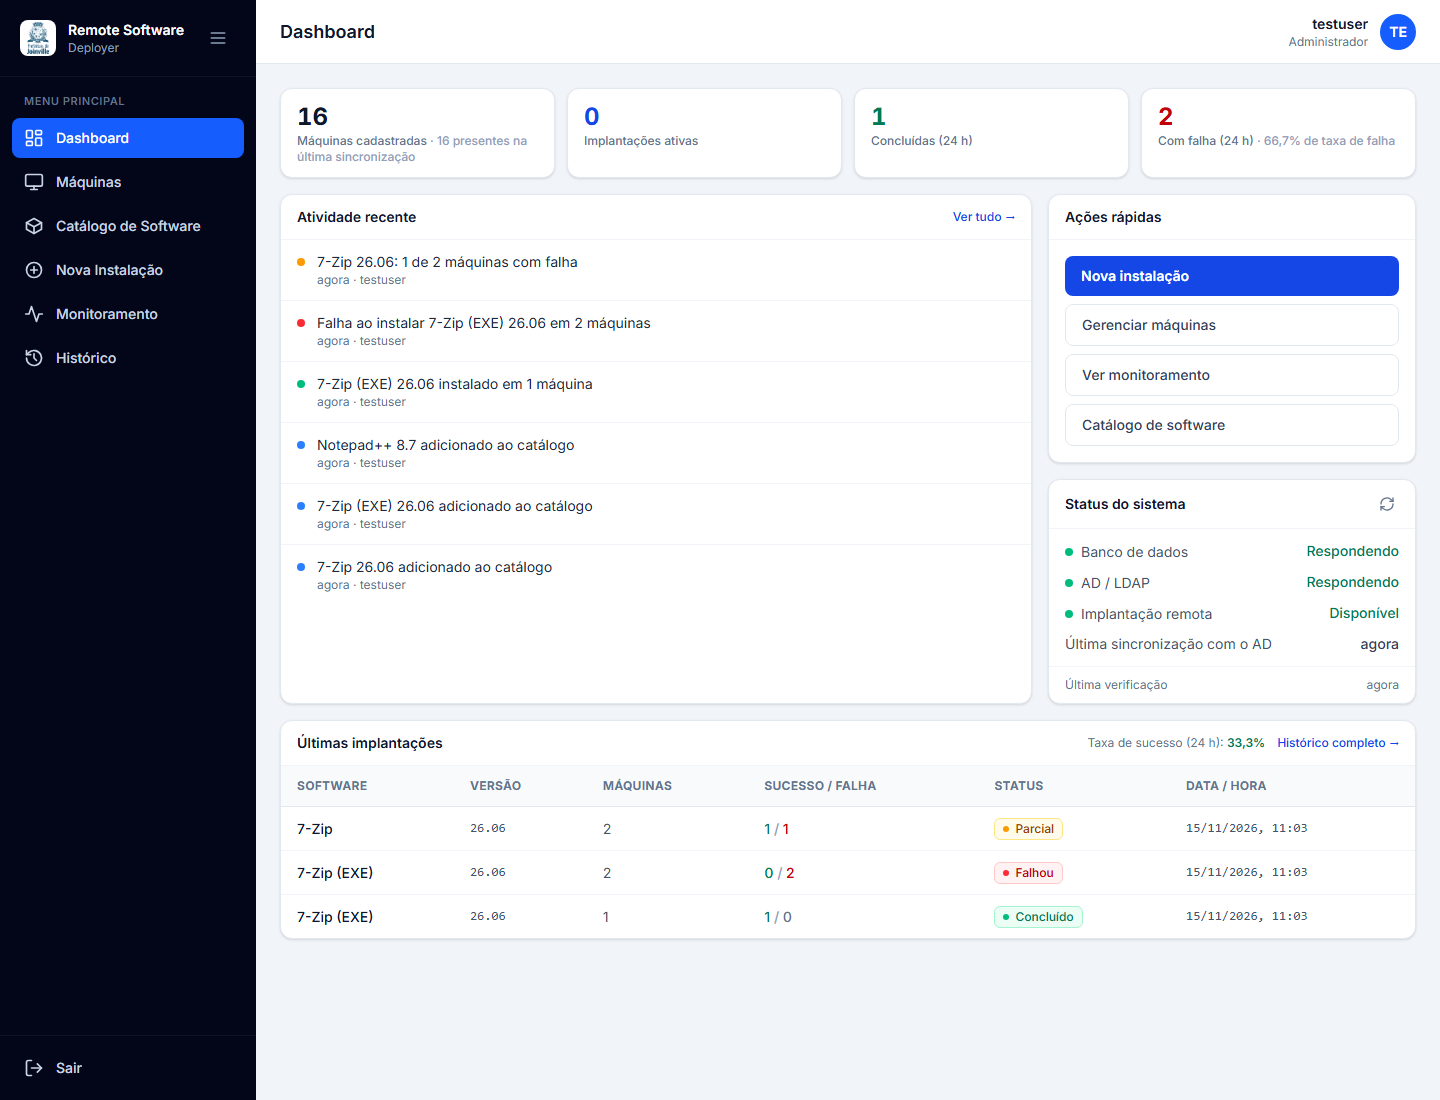
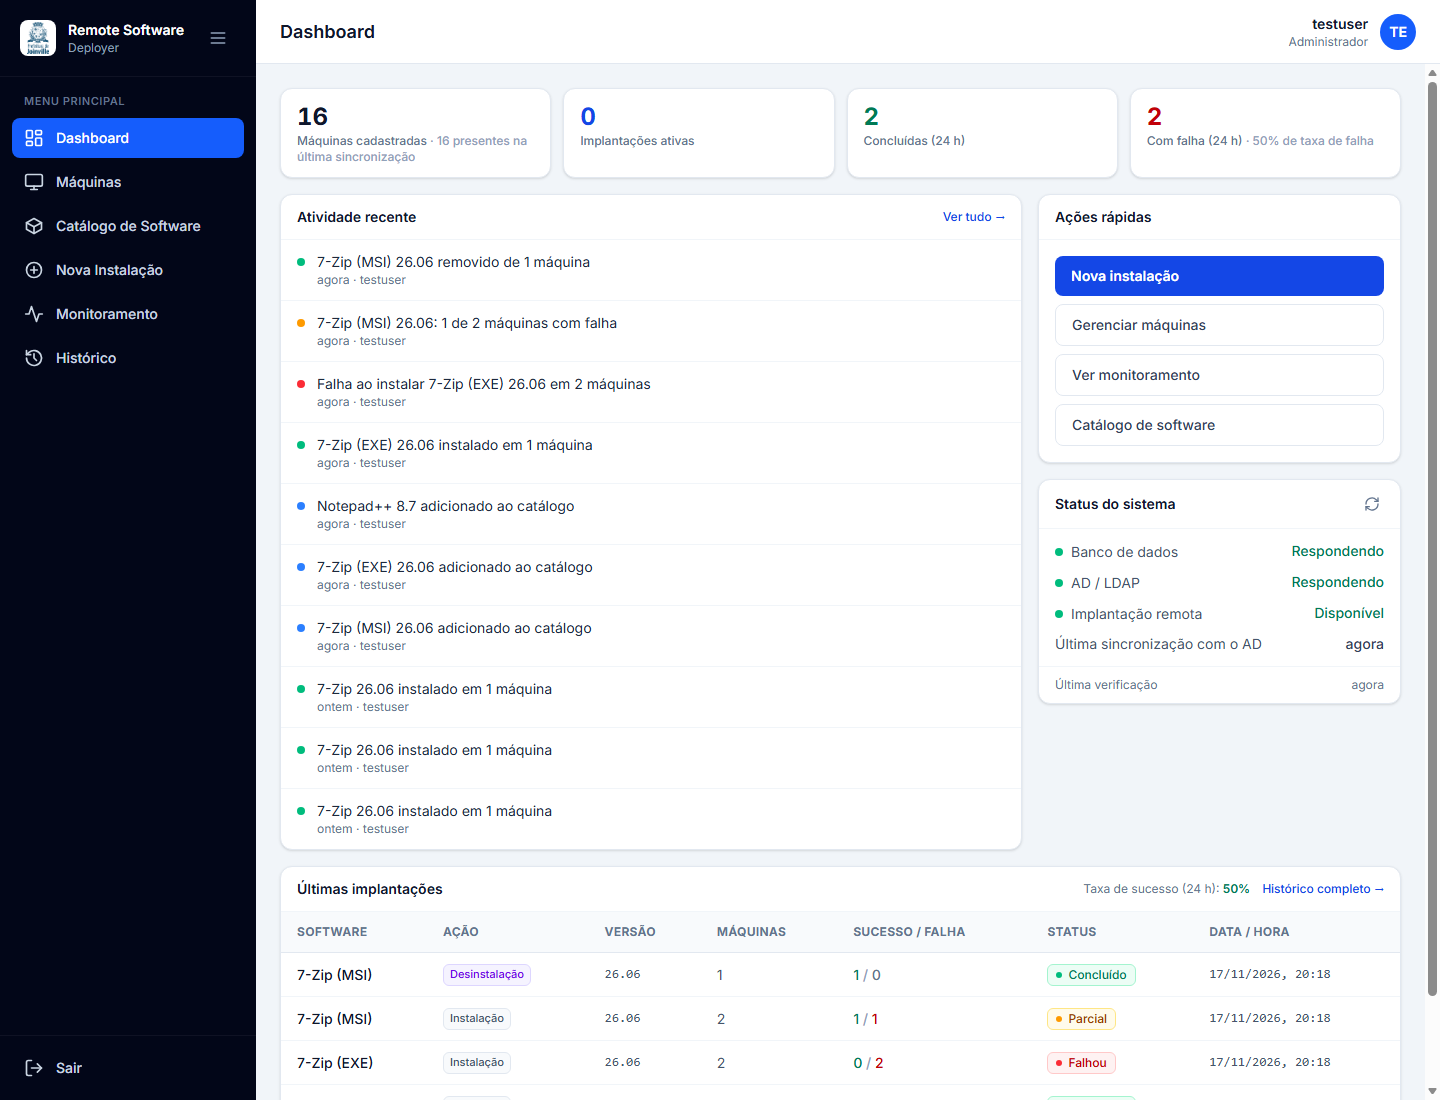
docs: registra desinstalação no README
Desinstalação remota (só MSI) registrada como acréscimo fora do RFC: como funciona, decisões de segurança, limitação por versão e desinstalação de EXE como trabalho futuro. RF06, RF07 e RF13 descritos na estrutura nova (implantação expandida no Monitoramento e no Histórico). Prints refeitos: sai o da tela de acompanhamento; entram Monitoramento e Histórico com a implantação expandida e a revisão da desinstalação.

diff --git a/README.md b/README.md
@@ -50,6 +50,9 @@ flowchart LR
   3. verifica se o produto já está instalado;
   4. executa em modo silencioso;
   5. apaga os arquivos temporários.
+
+  Na **desinstalação** (só MSI), o mesmo script confere se o produto está instalado e
+  executa `msiexec /x {ProductCode}`, sem copiar nada.
 - Para alcançar as estações pelo WinRM, **o backend precisa rodar em Windows, dentro da
   rede das estações.**
 
@@ -78,14 +81,32 @@ clássicos de migração, o NestJS 12 só publica ESM e o TypeScript 7 quebra o 
 | RF03 | Selecionar máquinas | ✅ Seleção individual e "selecionar todas" respeitando a busca. Até 50 máquinas por implantação. |
 | RF04 | Cadastrar softwares | ✅ Catálogo com MSI e EXE e argumentos silenciosos. O instalador é enviado ao sistema, que calcula o SHA-256. Desativar em vez de apagar o que já foi implantado. |
 | RF05 | Executar instalação remota | ✅ Fila com até 10 máquinas em paralelo e uma instalação por vez em cada máquina. Validado numa VM de laboratório (ver [Limitações](#limitações-conhecidas)). |
-| RF06 | Acompanhar status | ✅ Tela de acompanhamento com a fase de cada máquina (conectando, copiando, conferindo o hash, instalando…), atualizada a cada 3 s, e painel de Monitoramento. |
-| RF07 | Histórico de instalações | ✅ Filtros por período, status, software, máquina e "Minhas implantações", com paginação. Os filtros ficam no link. |
+| RF06 | Acompanhar status | ✅ Monitoramento com as implantações em andamento e as encerradas nas últimas 24 h. Cada uma expande na própria linha, com a fase de cada máquina (conectando, copiando, conferindo o hash, instalando…), atualizada a cada 3 s. |
+| RF07 | Histórico de instalações | ✅ Implantações encerradas, com filtros por período, ação, status, software, máquina e "Minhas implantações", e paginação. Os filtros ficam no link. |
 | RF08 | Inventário de software instalado por máquina | ⏳ **Trabalho futuro.** Depende de consulta ao vivo pelo WinRM, já validada na prova de conceito, mas não implementada. |
 | RF09 | Registrar resultado | ✅ Status e código de saída por máquina. Os códigos do Windows Installer (1603, 1618…) aparecem com mensagem explicativa. |
 | RF10 | Mensagens de sucesso e falha | ✅ Cada falha diz a fase e o motivo (máquina não encontrada, WinRM recusado, acesso negado, hash diferente, tempo esgotado…). |
 | RF11 | Pesquisar e filtrar máquinas | ✅ Busca por nome, sistema ou setor; filtro por setor e por presença no AD. |
 | RF12 | Detalhes da máquina | ✅ Painel com os dados vindos do AD. IP, CPU e memória não são mostrados porque o AD não os fornece. |
-| RF13 | Logs de execução | ✅ Log completo de cada máquina, com hora e nível, na tela de acompanhamento. |
+| RF13 | Logs de execução | ✅ Log completo de cada máquina, com hora e nível, dentro da implantação expandida no Monitoramento e no Histórico. |
+
+### Acréscimo fora do RFC: desinstalação remota (só MSI)
+
+Na Nova Instalação, o passo do software tem a escolha **Instalar / Desinstalar**.
+
+- **Como funciona:** a desinstalação usa o mesmo fluxo da instalação (fila, uma ação
+  por vez em cada máquina, logs, Monitoramento, Histórico e permissões). Na máquina, o
+  comando é sempre `msiexec.exe /x {ProductCode} /qn /norestart REBOOT=ReallySuppress`.
+  - O **ProductCode** é lido pelo servidor do próprio pacote MSI, no envio, com o pacote
+    aberto só para leitura. Por isso **nada é copiado** para a máquina.
+  - Nenhum argumento do catálogo é repassado.
+- **Produto ausente:** se o produto não estiver instalado na máquina, nada é executado e
+  a máquina fica como sucesso, com o aviso "não estava instalado". O mesmo vale para o
+  código 1605. Os códigos 0, 3010 e 1641 têm o mesmo tratamento da instalação.
+- **Software desativado** no catálogo pode ser desinstalado; instalar continua exigindo
+  software ativo.
+- **EXE não tem desinstalação:** um EXE não traz um código de produto confiável, e cada
+  família de instalador desinstala de um jeito. A tela explica isso no próprio passo.
 
 ## Telas
 
@@ -93,14 +114,13 @@ clássicos de migração, o NestJS 12 só publica ESM e o TypeScript 7 quebra o 
 |---|---|
 | **Login** com a conta de rede<br/>![Login](docs/img/01-login.png) | **Máquinas** sincronizadas com o AD, com o painel de detalhes<br/>![Máquinas](docs/img/03-maquinas.png) |
 | **Catálogo de Software**: tipo, tamanho e implantações<br/>![Catálogo](docs/img/04-catalogo.png) | **Nova Instalação**, revisão com o comando exato que será executado<br/>![Nova Instalação](docs/img/05-nova-instalacao-revisao.png) |
-| **Acompanhamento** por máquina, com o log<br/>![Acompanhamento](docs/img/06-acompanhamento.png) | **Monitoramento** das implantações<br/>![Monitoramento](docs/img/07-monitoramento.png) |
-| **Histórico** com filtros<br/>![Histórico](docs/img/08-historico.png) | |
+| **Monitoramento**, com a implantação expandida na própria linha e o log da máquina<br/>![Monitoramento](docs/img/06-monitoramento.png) | **Histórico** com filtros, uma implantação parcial expandida<br/>![Histórico](docs/img/07-historico.png) |
+| **Desinstalação** (só MSI), revisão com o comando exato<br/>![Desinstalação](docs/img/08-desinstalacao-revisao.png) | |
 
 Os prints foram feitos no ambiente de desenvolvimento, só com dados fictícios: as
 máquinas `WS-*` vêm do OpenLDAP local, e a `RSD-ALVO-01` é uma VM de laboratório. O
-acompanhamento mostra uma implantação real nessa VM. O produto já estava instalado, então
-o sistema não o executou de novo. A outra máquina, fictícia, falhou por não existir na
-rede.
+Monitoramento mostra uma desinstalação real nessa VM, e o Histórico, uma instalação em
+que a VM concluiu e a outra máquina, fictícia, falhou por não existir na rede.
 
 ## Decisões de segurança
 
@@ -117,8 +137,12 @@ rede.
     permitidos e passados como parâmetros (`Start-Process -ArgumentList`), nunca por
     `Invoke-Expression` ou `cmd /c`.
   - Não existe o tipo "script".
+  - Na desinstalação, o comando também é fixo (`msiexec /x {ProductCode}`): o
+    ProductCode é lido pelo servidor do pacote, com outro script fixo
+    ([`backend/scripts/read-msi-info.ps1`](backend/scripts/read-msi-info.ps1)) que abre
+    o MSI só para leitura. Nenhum argumento do catálogo é usado.
 - **O sistema nunca reinicia as máquinas.** O MSI roda com `/norestart`, e
-  `REBOOT=ReallySuppress` é sempre o último argumento. O catálogo recusa `REBOOT` com
+  `REBOOT=ReallySuppress` é sempre o último argumento, na instalação e na desinstalação. O catálogo recusa `REBOOT` com
   outro valor. Isso foi encontrado na prática: na VM de teste, um `REBOOT=Force` vindo
   do catálogo reiniciou a máquina antes dessa proteção existir.
 - **Hash conferido no destino.** O SHA-256 é calculado pelo servidor no envio do
@@ -276,6 +300,9 @@ Recomenda-se um checkpoint da VM limpa: cada teste deixa o software instalado.
   status só aparece quando a implantação tenta conectar.
 - **EXE sem verificação de "já instalado":** só o MSI traz um código de produto
   confiável. Um EXE implantado de novo é executado de novo.
+- **Desinstalação só para MSI, e por versão:** o ProductCode é o da versão cadastrada no
+  catálogo. Se a máquina tiver outra versão do produto, o resultado é "não estava
+  instalado"; para removê-la, cadastra-se o MSI dessa versão.
 - **Um EXE pode reiniciar a máquina por conta própria.** O sistema controla o reinício
   do MSI, mas não o de um instalador EXE que o force internamente.
 - **Fila e agendamento em memória, num único processo.** Com mais de uma instância do
@@ -289,6 +316,8 @@ Recomenda-se um checkpoint da VM limpa: cada teste deixa o software instalado.
 - **Inventário de software por máquina (RF08):** consulta ao vivo pelo WinRM
   (`Get-Package` mais leitura do registro, já validados na prova de conceito),
   reaproveitando a conexão da implantação.
+- **Desinstalação de EXE:** exigiria descobrir, por família de instalador (Inno Setup,
+  NSIS, InstallShield…), o desinstalador e os argumentos silenciosos de cada produto.
 - **Agente nas estações:** eliminaria a cópia pelo servidor, que limita a banda, e
   permitiria saber se a máquina está online.
 - **Status online/offline e dados de hardware** (IP, CPU, memória) por verificação sob
